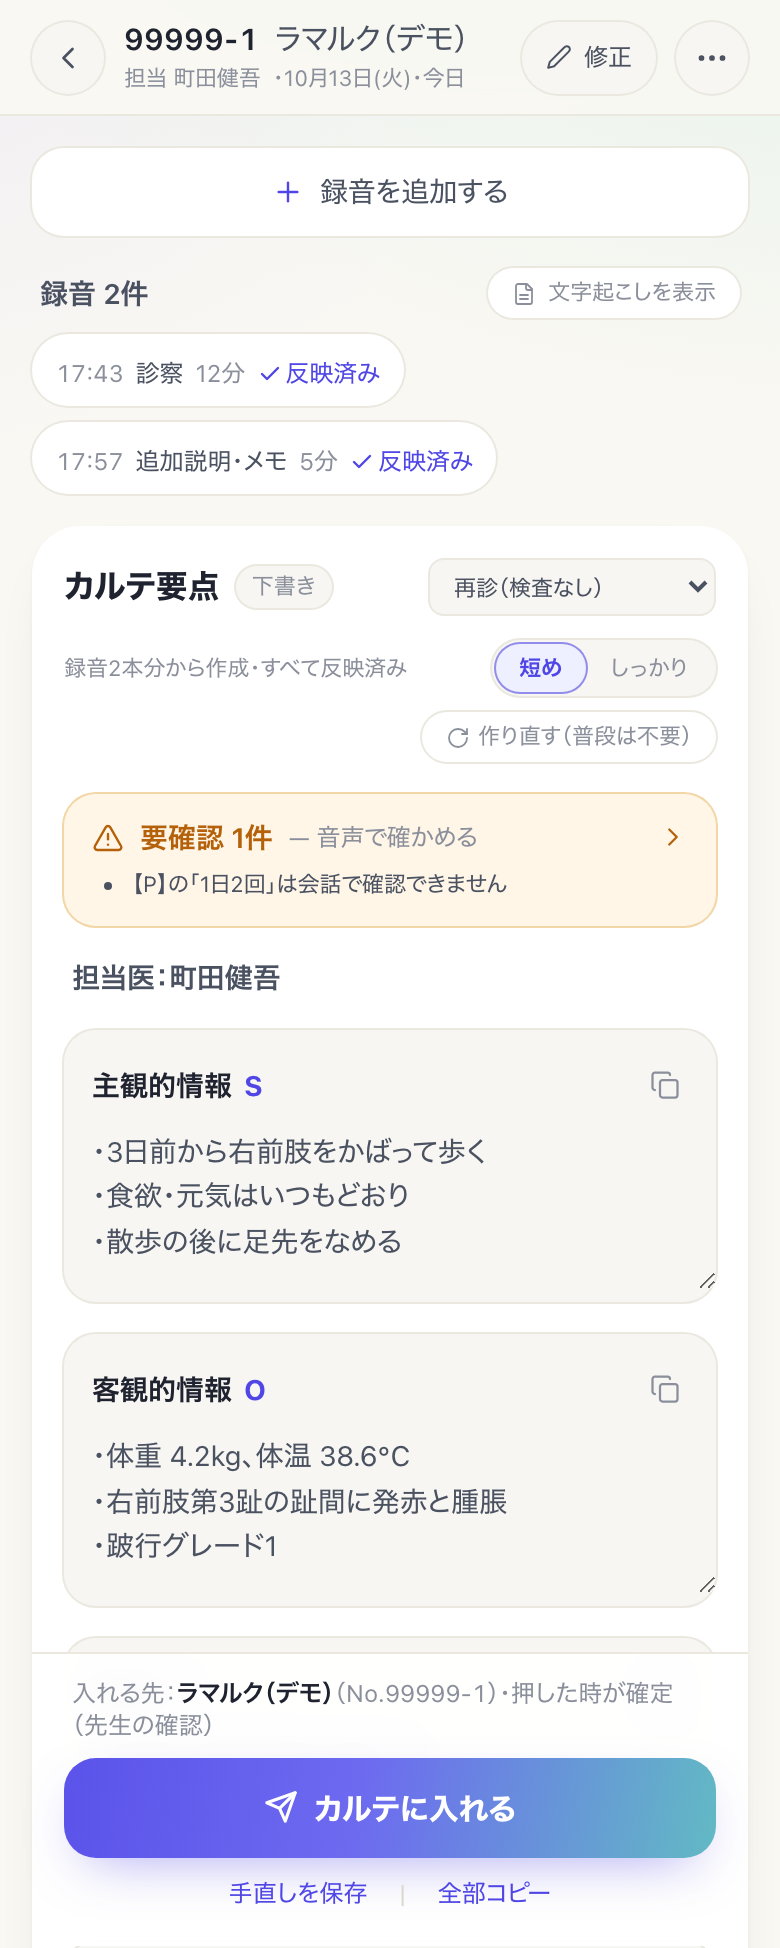
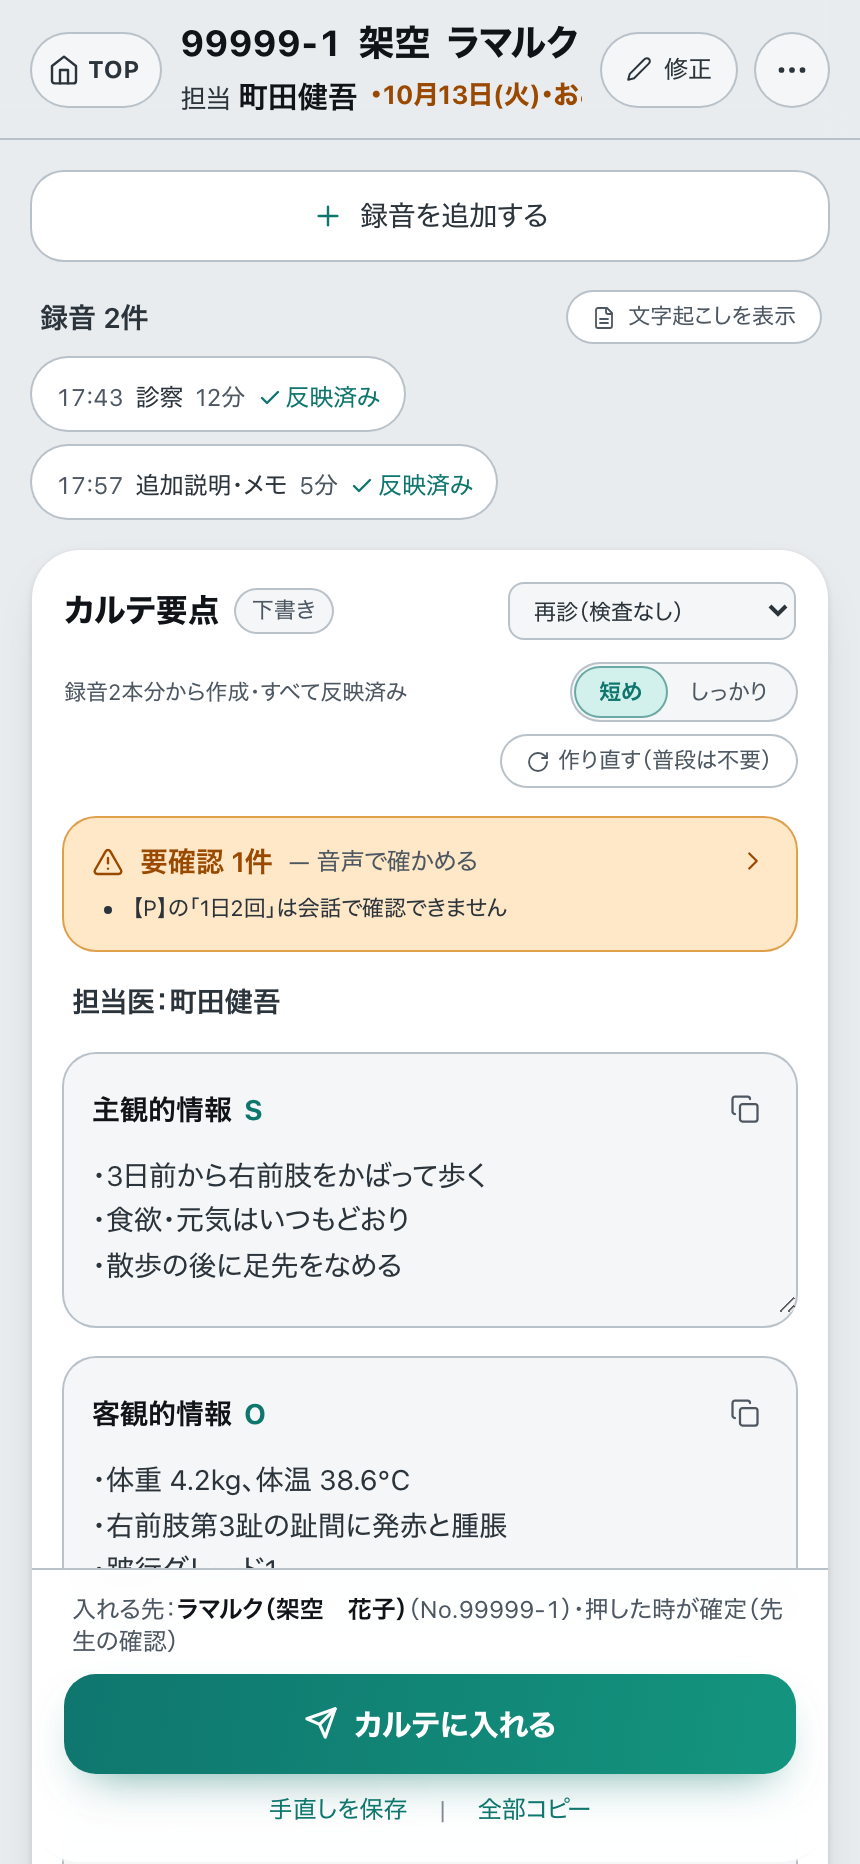
カルテ音声のガイドを10/15版に（配色グレー地×深緑の写真に撮り直し・戻るボタンをTOPに・見出しの並び・一覧の↑TOPボタンの写真を追加）

diff --git a/karte-voice.html b/karte-voice.html
@@ -58,7 +58,7 @@
 
 <h1>カルテ音声SOAPアプリ 使い方ガイド
 <small><a href="classic.html" style="color:#fff;text-decoration:underline">← ガイド一覧へ</a></small>
-<small>獣医師向け ｜ 2026年10月13日版 ｜ 荻窪ツイン動物病院</small></h1>
+<small>獣医師向け ｜ 2026年10月15日版 ｜ 荻窪ツイン動物病院</small></h1>
 
 <div class="card">
 <b>30秒まとめ</b><br>
@@ -67,7 +67,8 @@
 <span class="badge b-vet">獣医師が使う画面です</span>
 <span class="badge b-auto">緑 = 自動（AI・システム）</span>
 </div>
-<p style="margin:10px 0 0;font-size:.92rem">🆕 <b>2026-10-13 画面を新しくしました（アイボリー地にインディゴの明るい配色・ボタンの場所の整理）。</b>使い方の流れと要点の精度は変わりません。前の画面にあったボタンの行き先は下の表のとおりです。</p>
+<p style="margin:10px 0 0;font-size:.92rem">🆕 <b>2026-10-13 画面を新しくしました（ボタンの場所の整理）。</b>使い方の流れと要点の精度は変わりません。前の画面にあったボタンの行き先は下の表のとおりです。</p>
+<p style="margin:6px 0 0;font-size:.92rem">🎨 <b>2026-10-14 配色を「グレー地×深緑」にしました</b>（前の配色は色が薄くて見えにくかったため）。あわせて、戻るボタンを<b>「TOP」</b>にし、診察画面の上の見出し（<b>診察券番号・飼い主の姓・ペット名</b>）と<b>担当医の名前</b>を大きくしました。</p>
 </div>
 
 <div class="card">
@@ -77,7 +78,7 @@
 <tr><td>トップ右上の「⚠ 要確認」「📖 用語辞書」「🗒 メモ候補」「💡 改善リクエスト」</td><td>右上は<b>ベル</b>（要確認の件数）と<b>三本線のメニュー</b>だけ。用語辞書・メモ候補・改善リクエスト・ログアウトは<b>メニューの中</b>。</td></tr>
 <tr><td>トップの①〜④の番号</td><td>番号は無くなり、上から「診察タイプ」「担当」「カルテNo.」「要点の詳しさ」の順。</td></tr>
 <tr><td>診察タイプの「再診（検査なし／検査あり）」「初診（検査予定）」</td><td>「再診（検査なし）」は<b>トップにそのまま並びます</b>。<b>「再診（検査あり）」「初診（検査予定）」は「万能」にまとめました</b>（2026-10-14〜）。</td></tr>
-<tr><td>診察画面 右下の「🏠 診察をはじめる」</td><td>無くなりました。画面の上の帯の左の<b>「＜」</b>で一覧へ戻ります。</td></tr>
+<tr><td>診察画面 右下の「🏠 診察をはじめる」</td><td>無くなりました。画面の上の帯の左の<b>「TOP」</b>（家のアイコン）でトップへ戻ります。</td></tr>
 <tr><td>「✎ 担当医を変える」「✎ カルテNo.を修正」</td><td>上の帯の<b>「修正」</b>（担当医の変更はここ1か所だけ）。</td></tr>
 <tr><td>ページ下の「🗄 アーカイブに移す」・削除、各欄の「✕ この欄を消す」</td><td>上の帯の<b>「…」</b>のメニュー（アーカイブに移す／要点の欄を消す…／この診察を削除）。</td></tr>
 <tr><td>要点の上に何枚も出ていた案内（つぎにすること・あとN回・未反映 など）</td><td>いちばん大事な1つだけを<b>色の帯</b>で出します。長い説明は帯の「詳しく」。「つぎにすること」は無くなりました。</td></tr>
@@ -178,8 +179,8 @@
 <h3>診察画面の上の帯（スクロールしても残ります）</h3>
 <table>
 <tr><th style="width:26%">場所</th><th>中身</th></tr>
-<tr><td><b>左の「＜」</b></td><td>診察一覧へ戻ります。</td></tr>
-<tr><td><b>真ん中</b></td><td>1行目に<b>カルテNo.＋患者名</b>、2行目に<b>「担当 ○○・日付」</b>（今日以外の診察は日付の色が変わります）。</td></tr>
+<tr><td><b>左の「TOP」</b></td><td>家のアイコン。トップ（診察をはじめる・診察一覧）へ戻ります。</td></tr>
+<tr><td><b>真ん中</b></td><td>1行目に大きく<b>「診察券番号　飼い主の姓　ペット名」</b>（例 1234-1　山田　ポチ）。2行目に<b>「担当 ○○」</b>（先生の名前は太字）と日付（今日以外の診察は日付の色が変わります）。画面が狭い時は途中で切らずに2行に折り返します。<br><span style="font-size:.85rem;color:#64748b">電子カルテの飼い主名に姓と名の間の空白が無い方は、姓だけでなく名前全体が出ます。多頭で一緒に診た時はペット名だけです。</span></td></tr>
 <tr><td><b>「修正」</b></td><td>押すと<b>カルテNo.を直す</b>欄と<b>担当獣医師を選び直す</b>欄が開きます（→ 下の「担当獣医師をまちがえた時」）。カルテNo.が未設定の時は最初から開いています。</td></tr>
 <tr><td><b>「…」</b></td><td>この診察の管理：<b>アーカイブに移す</b>（アーカイブ済みなら「診療中に戻す」）／<b>要点の欄を消す…</b>／<b>この診察を削除</b>。</td></tr>
 </table>
@@ -326,7 +327,9 @@
 
 <h2 id="list">11. 一覧の見方（診察が毎日たまらない工夫）</h2>
 <div class="card">
-<p style="margin-top:0">トップの下半分の<b>「診察一覧」</b>は<b>3つのタブ</b>に分かれています。見出しの右に<b>絞り込み（じょうごのアイコン）</b>と<b>更新（くるっと矢印のアイコン）</b>があります。日ごとの中は「午前」「午後」の小見出しで分かれます。下にスクロールすると、右下に<b>「診察をはじめる」</b>ボタンが出ます（押すと上の「診察をはじめる」へ戻ります）。</p>
+<p style="margin-top:0">トップの下半分の<b>「診察一覧」</b>は<b>3つのタブ</b>に分かれています。見出しの右に<b>絞り込み（じょうごのアイコン）</b>と<b>更新（くるっと矢印のアイコン）</b>があります。日ごとの中は「午前」「午後」の小見出しで分かれます。下にスクロールすると、右下に<b>「↑ TOP」</b>ボタンが出ます（押すといちばん上の「診察をはじめる」へ戻ります）。</p>
+<img class="shot" src="cv-list.png" alt="診察一覧と右下のTOPボタン">
+<div class="cap">▲ 診察一覧（サンプル）。右下が「↑ TOP」ボタン</div>
 <table>
 <tr><th style="width:26%">タブ</th><th>中身</th></tr>
 <tr><td><b>今日・昨日</b></td><td>当日と前日の、まだカルテに入れていない診察。</td></tr>
@@ -411,7 +414,7 @@
 
 <div class="imp"><b>⚠ 患者情報の取り扱い：</b>カルテNo.・患者名・会話内容は<b>このアプリと院内カルテ（Ahrmics）の中だけ</b>で保管され、外部（LINE・SNS等）には出ません。ただし<b>院外で画面を開いたまま席を離れない・画面の写真をSNS等に載せない</b>でください。（このガイドの画像はすべてサンプルで、実在の患者情報は含みません）</div>
 
-<footer>荻窪ツイン動物病院 ｜ カルテ音声SOAPアプリ 使い方ガイド（2026年10月13日版）<br>不明点・改善要望は院長まで</footer>
+<footer>荻窪ツイン動物病院 ｜ カルテ音声SOAPアプリ 使い方ガイド（2026年10月15日版）<br>不明点・改善要望は院長まで</footer>
 </div>
 </body>
 </html>
